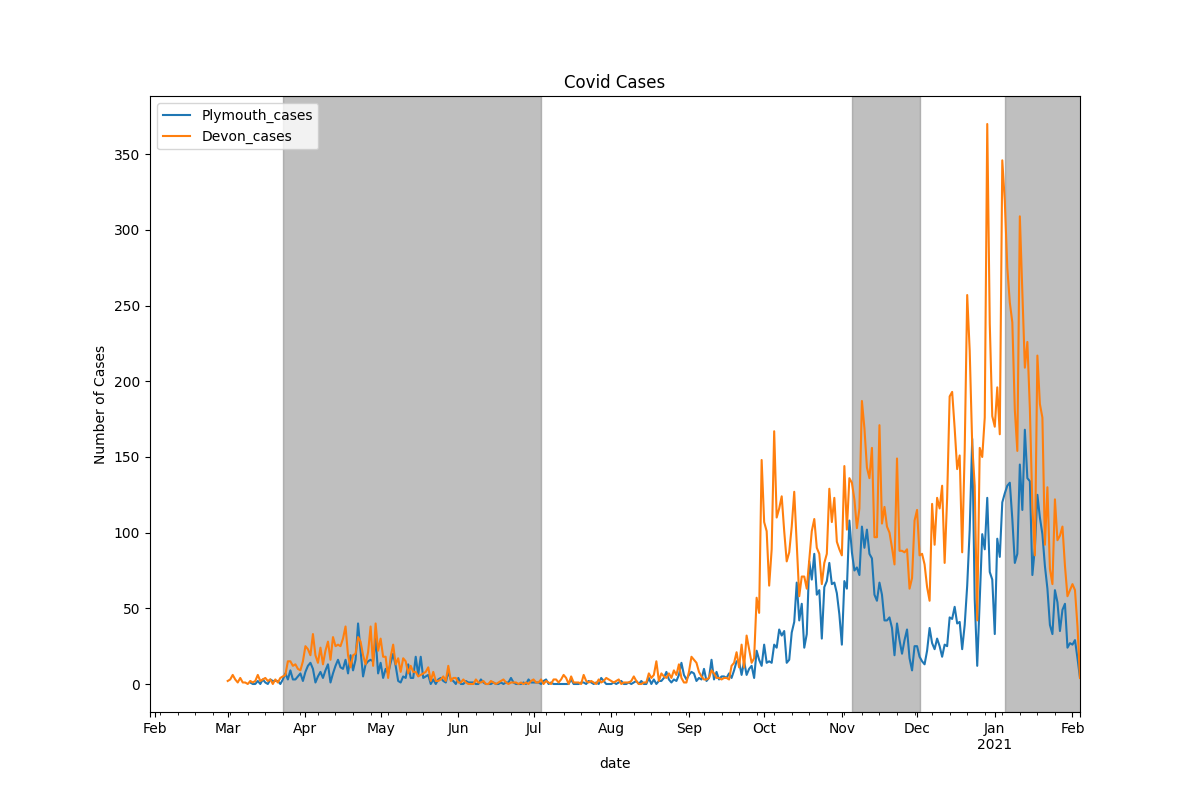
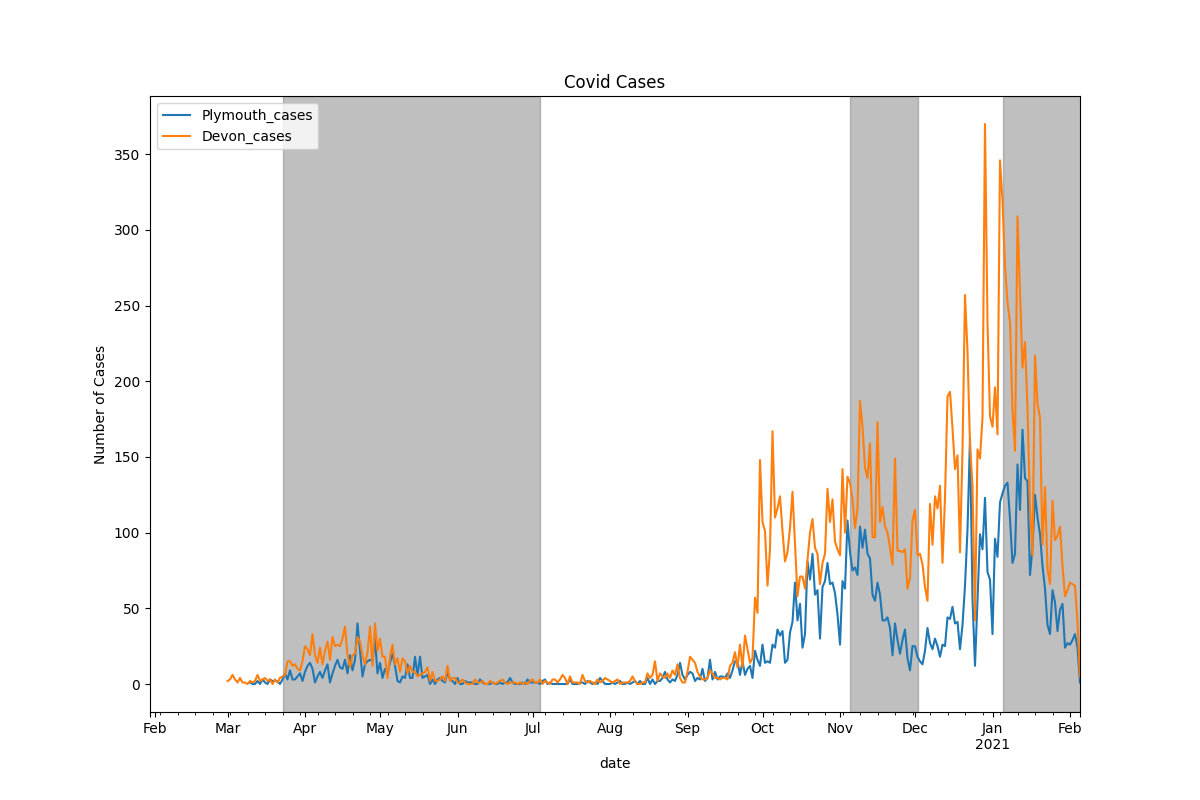
update-data

diff --git a/index.md b/index.md
@@ -7,4 +7,4 @@ Grey sections are used to identify national lockdowns, of various strengths.
 ![Covid Rates Per 100000](images/plymouth_covid_graph_pht.png "Plymouth Covid Graph Per 100000 ")
 
 
-Last updated on: 05 February 2021
+Last updated on: 07 February 2021
